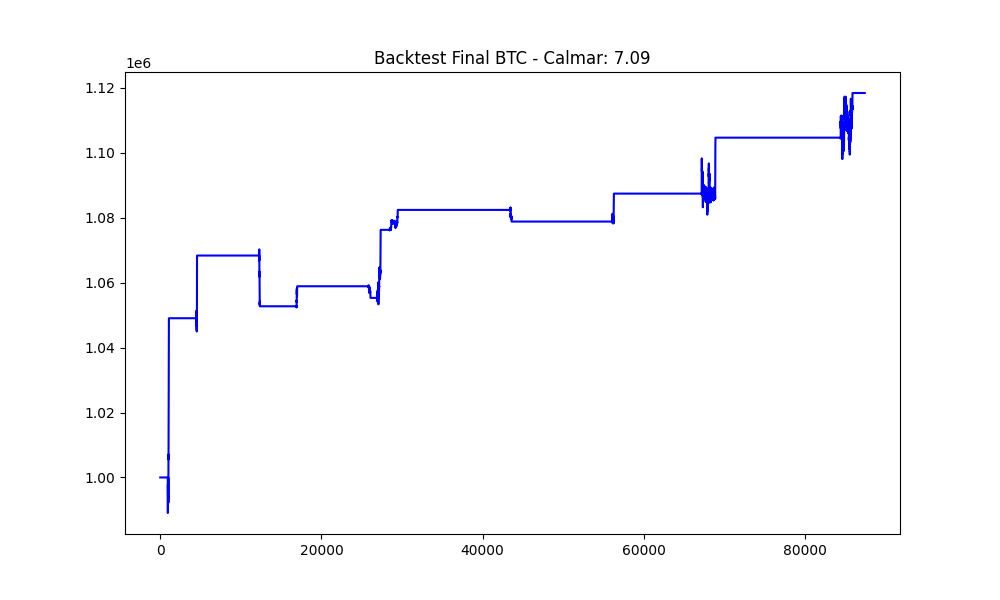
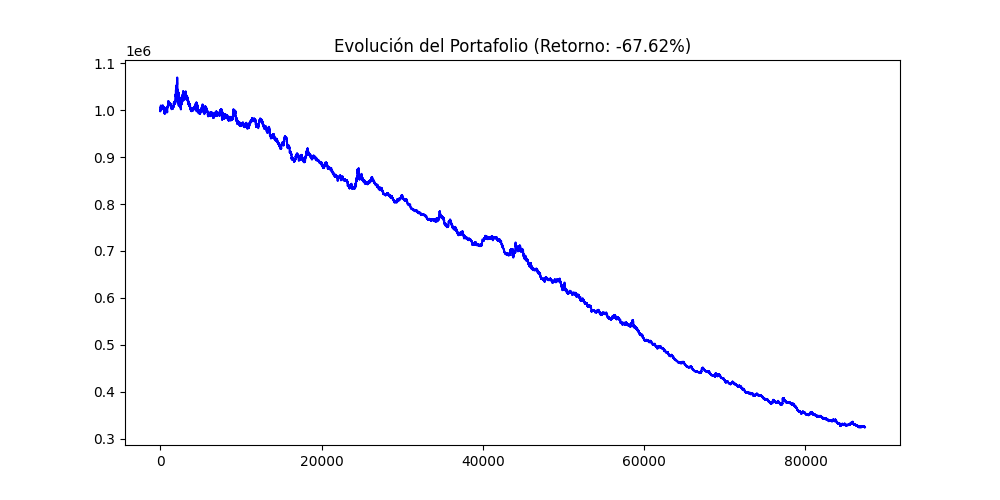
Entrega Final Proyecto 2 - svg

diff --git a/backtest.py b/backtest.py
@@ -2,113 +2,65 @@ import pandas as pd
 import ta
 import numpy as np
 
+def run_single_backtest(data: pd.DataFrame, params: dict) -> dict:
+    df = data.copy()
+    initial_cash = 1_000_000
+    current_cash = initial_cash
+    COM = 0.00125  # 0.125%
+    active_pos = None
+    strategy_value = []
+    total_fees = 0
+    num_ops = 0
 
-def run_single_backtest(data: pd.DataFrame) -> list[float]:
-    data = data.copy()
-    cash = 1_000_000
-    COM = 0.125 / 100
-    active_long_positions = []
-    strategy_value = [cash]
-    num_operations = 0
+    # Indicadores
+    df['rsi'] = ta.momentum.RSIIndicator(df.Close, window=int(params['rsi_window'])).rsi()
+    df['ma'] = ta.trend.sma_indicator(df.Close, window=int(params['ma_window']))
+    df['macd_hist'] = ta.trend.macd_diff(df.Close)
+    df = df.dropna().reset_index(drop=True)
 
-    # ventanas
-    rsi_window = 24
-    rsi_lower = 14
+    for i, row in df.iterrows():
+        v_ma = 1 if row.close > row.ma else -1
+        v_rsi = 1 if row.rsi < params['rsi_lower'] else (-1 if row.rsi > (100 - params['rsi_lower']) else 0)
+        v_macd = 1 if row.macd_hist > 0 else -1
+        score = v_ma + v_rsi + v_macd
 
-    # 20% del capital (resultados de los 200 trials que hice al inciio)
-    n_shares = (cash * 0.20) / data.Close.iloc[0]
-    take_profit = 0.0525
-    stop_loss = 0.0254
+        unrealized_pnl = 0
 
-    rsi_ind = ta.momentum.RSIIndicator(data.Close, window=rsi_window)
-    data["rsi"] = rsi_ind.rsi()
-    data = data.dropna()
+        if active_pos:
+            p, e, s = row.close, active_pos['entry'], active_pos['shares']
+            unrealized_pnl = s * (p - e) if active_pos['type'] == 'L' else s * (e - p)
+            pnl_pct = unrealized_pnl / (s * e)
 
-    for i, row in data.iterrows():
-        for position in active_long_positions.copy():
-            current_val = row.Close * position["shares"]
-            if current_val < position["sl"] or current_val > position["tp"]:
-                cash += current_val * (1 - COM)
-                active_long_positions.remove(position)
+            if pnl_pct >= params['tp'] or pnl_pct <= -params['sl'] or (active_pos['type'] == 'L' and score <= -2) or (active_pos['type'] == 'S' and score >= 2):
+                fee_salida = (s * p) * COM
+                total_fees += fee_salida
+                current_cash += unrealized_pnl - fee_salida
+                active_pos = None
+                num_ops += 1
+                unrealized_pnl = 0
 
-        if row.rsi < rsi_lower:
-            cost = row.Close * n_shares * (1 + COM)
-            if cash > cost:
-                cash -= cost
-                active_long_positions.append({
-                    "shares": n_shares,
-                    "sl": row.Close * n_shares * (1 - stop_loss),
-                    "tp": row.Close * n_shares * (1 + take_profit)
-                })
-                num_operations += 1
+        if not active_pos:
+            if score >= 2 or score <= -2:
+                tipo = 'L' if score >= 2 else 'S'
+                n_shares = (current_cash * 0.20) / row.close
+                fee_entrada = (n_shares * row.close) * COM
+                total_fees += fee_entrada
+                current_cash -= fee_entrada
+                active_pos = {'type': tipo, 'shares': n_shares, 'entry': row.close}
 
-        long_values = sum([p["shares"] * row.Close for p in active_long_positions])
-        strategy_value.append(cash + long_values)
+        strategy_value.append(current_cash + unrealized_pnl)
 
-    return strategy_value, num_operations
-
-
-def objective(data: pd.DataFrame, trial) -> float:
-    data = data.copy()
-    cash = 1000000
-    COM = 0.125 / 100
-    active_long_positions = []
-    strategy_value = [cash]
-
-    # Sugerencias de Optuna
-    rsi_window = trial.suggest_int("rsi_window", 4, 40)
-    rsi_lower = trial.suggest_int("rsi_lower", 5, 45)
-    take_profit = trial.suggest_float("take_profit", 0.02, 0.15)
-    stop_loss = trial.suggest_float("stop_loss", 0.02, 0.15)
-
-    # 20% del capital para n_shares
-    n_shares = (cash * 0.20) / data.Close.iloc[0]
-
-    rsi_ind = ta.momentum.RSIIndicator(data.Close, window=rsi_window)
-    data["rsi"] = rsi_ind.rsi()
-    data = data.dropna()
-
-    for i, row in data.iterrows():
-        for position in active_long_positions.copy():
-            current_val = row.Close * position["shares"]
-            if current_val < position["sl"] or current_val > position["tp"]:
-                cash += current_val * (1 - COM)
-                active_long_positions.remove(position)
-
-        if row.rsi < rsi_lower:
-            cost = row.Close * n_shares * (1 + COM)
-            if cash > cost:
-                cash -= cost
-                active_long_positions.append({
-                    "shares": n_shares,
-                    "sl": row.Close * n_shares * (1 - stop_loss),
-                    "tp": row.Close * n_shares * (1 + take_profit)
-                })
-
-        long_values = sum([p["shares"] * row.Close for p in active_long_positions])
-        strategy_value.append(cash + long_values)
-
-    # calculo de Calmar Ratio
-    vals = pd.Series(strategy_value)
-    ret = (vals.iloc[-1] / vals.iloc[0]) - 1
-    dd = (vals - vals.cummax()) / vals.cummax()
-    max_dd = abs(dd.min())
-
-    return ret / max_dd if max_dd != 0 else 0
-
+    return {"portfolio": strategy_value, "total_fees": total_fees, "num_ops": num_ops}
 
 def calculate_metrics(strategy_value):
-    df_val = pd.DataFrame(strategy_value, columns=['value'])
-
-    # retorno total
-    total_return = (df_val['value'].iloc[-1] / df_val['value'].iloc[0]) - 1
-
-    # max drawdown
-    df_val['peak'] = df_val['value'].cummax()
-    df_val['drawdown'] = (df_val['value'] - df_val['peak']) / df_val['peak']
-    max_drawdown = abs(df_val['drawdown'].min())
-
-    # calmar ratio
-    calmar_ratio = total_return / max_drawdown if max_drawdown != 0 else 0
-
-    return total_return, max_drawdown, calmar_ratio
+    df_v = pd.Series(strategy_value)
+    if len(df_v) < 2: return 0, 0, 0, 0
+    ret_total = (df_v.iloc[-1] / df_v.iloc[0]) - 1
+    peak = df_v.cummax()
+    dd = (df_v - peak) / peak
+    max_dd = abs(dd.min())
+    calmar = ret_total / max_dd if max_dd > 0 else 0
+    returns = df_v.pct_change().dropna()
+    ann = np.sqrt(288 * 365)
+    sharpe = (returns.mean() / returns.std()) * ann if returns.std() != 0 else 0
+    return ret_total, max_dd, calmar, sharpe

diff --git a/main.py b/main.py
@@ -6,44 +6,51 @@ from optimization import optimize_backtest
 
 
 def main():
-    print("WALK-FORWARD ANALYSIS")
-    train_data, test_data = load_data()
-    train_data = preprocess(train_data)
+    print("--- INICIANDO SISTEMA DE TRADING BTC ---")
+    train_raw, _ = load_data()
+    train_data = preprocess(train_raw)
+    if train_data is None: return
 
-    train_window = 2016 * 4  # 4 semanas (1 mes)
-    test_window = 2016  # 1 semana
+    print("\nPASO 1: Optimizando parámetros (200 trials)...")
+    best_params = optimize_backtest(train_data)
 
-    results = []
-    start_idx = 0
+    print("\nPASO 2: Generando Resultados y Sensibilidad...")
+    variations = [0.8, 1.0, 1.2]
+    summary = []
 
-    print(f"Iniciando bucle de optimizacion semanal...")
+    for v in variations:
+        p = best_params.copy()
+        p['rsi_window'] = int(best_params['rsi_window'] * v)
+        res = run_single_backtest(train_data, p)
+        ret, dd, calmar, sharpe = calculate_metrics(res['portfolio'])
+        summary.append({
+            "Escenario": "-20%" if v < 1 else ("+20%" if v > 1 else "ÓPTIMO"),
+            "RSI_Win": p['rsi_window'],
+            "Cap_Final": res['portfolio'][-1],
+            "Comisiones": res['total_fees'],
+            "Retorno_Pct": ret,
+            "Calmar": calmar
+        })
 
-    # 1 mes, step forward : 1 week
-    while start_idx + train_window + test_window < len(train_data):
-        window_train = train_data.iloc[start_idx: start_idx + train_window]
-        window_test = train_data.iloc[start_idx + train_window: start_idx + train_window + test_window]
+    opt = summary[1]
+    print("\n" + "=" * 55)
+    print("DESGLOSE FINANCIERO FINAL")
+    print("=" * 55)
+    print(f"Capital Inicial:  $1,000,000.00")
+    print(f"Capital Final:    ${opt['Cap_Final']:,.2f}")
+    print(f"Ganancia Neta:    ${(opt['Cap_Final'] - 1000000):,.2f}")
+    print(f"Total Comisiones: ${opt['Comisiones']:,.2f}")
+    print(f"RENDIMIENTO TOTAL: {opt['Retorno_Pct']:.2%}")
+    print(f"Calmar Ratio:     {opt['Calmar']:.4f}")
 
-        # optimizar en el mes de entrenamiento
-        print(f"optimizando ventana desde indice {start_idx}...")
-        best_params = optimize_backtest(window_train)
-        results.append(best_params)
+    print("\n--- TABLA DE SENSIBILIDAD ---")
+    df_sens = pd.DataFrame(summary)
+    df_sens['Retorno %'] = df_sens['Retorno_Pct'].map(lambda x: f"{x:.2%}")
+    print(df_sens[["Escenario", "RSI_Win", "Retorno %", "Calmar"]])
 
-        #avanza una semana
-        start_idx += test_window
-        if len(results) >= 4: break  # Limitamos para la demo, puedes quitarlo
-
-    print("\nWalk-Forward completado.")
-    print(f"Se realizaron {len(results)} optimizaciones semanales.")
-
-    # grafica con r window 24
-    full_value, ops = run_single_backtest(train_data)
-    ret, dd, calmar = calculate_metrics(full_value)
-
-    print(f"Calmar Ratio Final: {calmar:.4f}")
-
-    plt.figure(figsize=(10, 6))
-    plt.plot(full_value, color='blue')
-    plt.title(f"Backtest Final BTC - Calmar: {calmar:.2f}")
+    plt.figure(figsize=(10, 5))
+    plt.plot(run_single_backtest(train_data, best_params)['portfolio'], color='blue')
+    plt.title(f"Evolución del Portafolio (Retorno: {opt['Retorno_Pct']:.2%})")
     plt.savefig("portfolio_final.png")
     plt.show()
 

diff --git a/plots.py b/plots.py
@@ -1,19 +1,28 @@
 import matplotlib.pyplot as plt
 import pandas as pd
 
-def plot_portfolio_value(strategy_value):
-    plt.figure(figsize=(12, 6))
-    plt.plot(strategy_value, label='Valor del Portafolio', color='blue')
-    plt.title('Evolución del Portfolio a través del tiempo')
-    plt.xlabel('Periodos')
-    plt.ylabel('USD')
-    plt.legend()
-    plt.grid(True)
-    plt.savefig('portfolio_value.png')
-    plt.show()
 
-def generate_returns_table(strategy_value):
-    series = pd.Series(strategy_value)
-    retornos = series.pct_change().dropna()
-    print("Retornos:")
-    print(retornos.describe())
+def generate_returns_tables(strategy_value, datetimes):
+    df = pd.DataFrame({'value': strategy_value})
+    # Ajustar longitud de fechas al valor del portafolio
+    df['date'] = pd.to_datetime(datetimes.iloc[:len(df)])
+    df.set_index('date', inplace=True)
+
+    #  diario
+    daily = df['value'].resample('D').last().ffill()
+    daily_ret = daily.pct_change()
+
+    # Mensual
+    monthly = daily_ret.resample('M').apply(lambda x: (1 + x).prod() - 1)
+    print("\n--- RETORNOS MENSUALES ---")
+    print(monthly)
+
+    # Trimestral
+    quarterly = daily_ret.resample('Q').apply(lambda x: (1 + x).prod() - 1)
+    print("\n--- RETORNOS TRIMESTRALES ---")
+    print(quarterly)
+
+    # Anual
+    annual = daily_ret.resample('Y').apply(lambda x: (1 + x).prod() - 1)
+    print("\n--- RETORNOS ANUALES ---")
+    print(annual)

diff --git a/data.py b/data.py
@@ -1,25 +1,18 @@
 import pandas as pd
 
-
 def load_data():
     try:
-        data_train = pd.read_csv("data/btc_project_train.csv").dropna()
-        data_test = pd.read_csv("data/btc_project_test.csv").dropna()
+        data_train = pd.read_csv("data/btc_project_train.csv")
+        data_test = pd.read_csv("data/btc_project_test.csv")
         return data_train, data_test
     except FileNotFoundError:
-        print("Error: No se encontraron los archivos en la carpeta 'data'.")
+        print("Error: No se encontraron los archivos en la carpeta 'data/'.")
         return None, None
 
-
 def preprocess(data: pd.DataFrame) -> pd.DataFrame:
+    if data is None: return None
     data = data.copy()
     data.columns = [col.lower() for col in data.columns]
-
-    data["timeStamp"] = data["timestamp"]
-    data["open"] = data["open"]
-    data["high"] = data["high"]
-    data["low"] = data["low"]
-    data["close"] = data["close"]
-    data["Close"] = data["close"]
-
-    return data
+    data["datetime"] = pd.to_datetime(data["datetime"], errors='coerce')
+    data["Close"] = data["close"] # Para compatibilidad con ta-lib
+    return data.dropna(subset=['close', 'datetime']).reset_index(drop=True)

diff --git a/optimization.py b/optimization.py
@@ -1,7 +1,19 @@
 import optuna
-from backtest import objective
+from backtest import run_single_backtest, calculate_metrics
 
 def optimize_backtest(data):
+    def objective(trial):
+        params = {
+            'rsi_window': trial.suggest_int('rsi_window', 10, 50),
+            'rsi_lower': trial.suggest_int('rsi_lower', 15, 35),
+            'ma_window': trial.suggest_int('ma_window', 20, 150),
+            'tp': trial.suggest_float('tp', 0.02, 0.10),
+            'sl': trial.suggest_float('sl', 0.01, 0.05)
+        }
+        res = run_single_backtest(data, params)
+        ret, dd, calmar, sharpe = calculate_metrics(res['portfolio'])
+        return calmar
+
     study = optuna.create_study(direction="maximize")
-    study.optimize(lambda trial: objective(data, trial), n_trials=200)
+    study.optimize(objective, n_trials=200)
     return study.best_params
